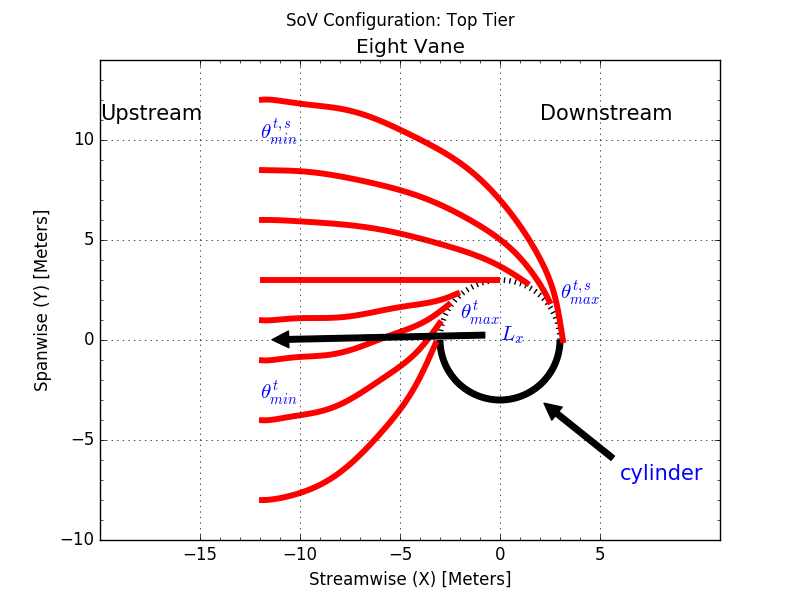
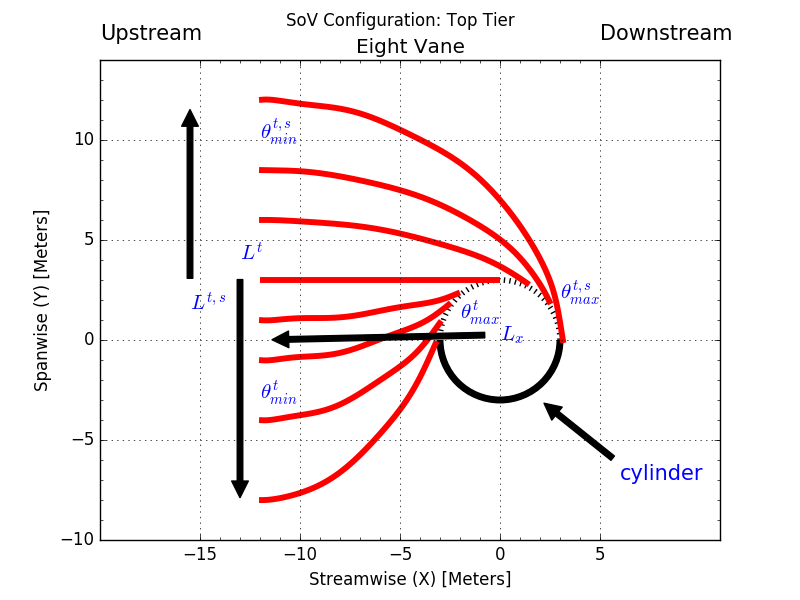
working again

diff --git a/disputatio/routines/vanes/combo.py b/disputatio/routines/vanes/combo.py
@@ -324,8 +324,8 @@ def main():
 
     # adding text
     #
-    ax.text(-20, 11, r'Upstream', fontsize=15)
-    ax.text(2, 11, r'Downstream', fontsize=15)
+    ax.text(-20, 15, r'Upstream', fontsize=15)
+    ax.text(5, 15, r'Downstream', fontsize=15)
 
     # angles
     ax.text(-2, 1, r'$\theta^{t}_{max}$', fontsize=15,color='blue')
@@ -339,8 +339,11 @@ def main():
     ax.annotate(r'cylinder', xy=(2,-3), xytext=(6,-7),
                 arrowprops=dict(facecolor='black', shrink=0.05),color='blue',fontsize=15)
 
-
-
+    ax.annotate(r'$L^{t}$', xy=(-13,-8.5), xytext=(-13, 4.0),
+                arrowprops=dict(facecolor='black', shrink=0.05),color='blue',fontsize=15)
+    ax.annotate(r'$L^{t,s}$', xy=(-15.5,12), xytext=(-15.5, 1.5),
+                arrowprops=dict(facecolor='black', shrink=0.05),color='blue',fontsize=15)
+    
 
     fig = plt.gcf()
     fig.gca().add_artist(circle)
